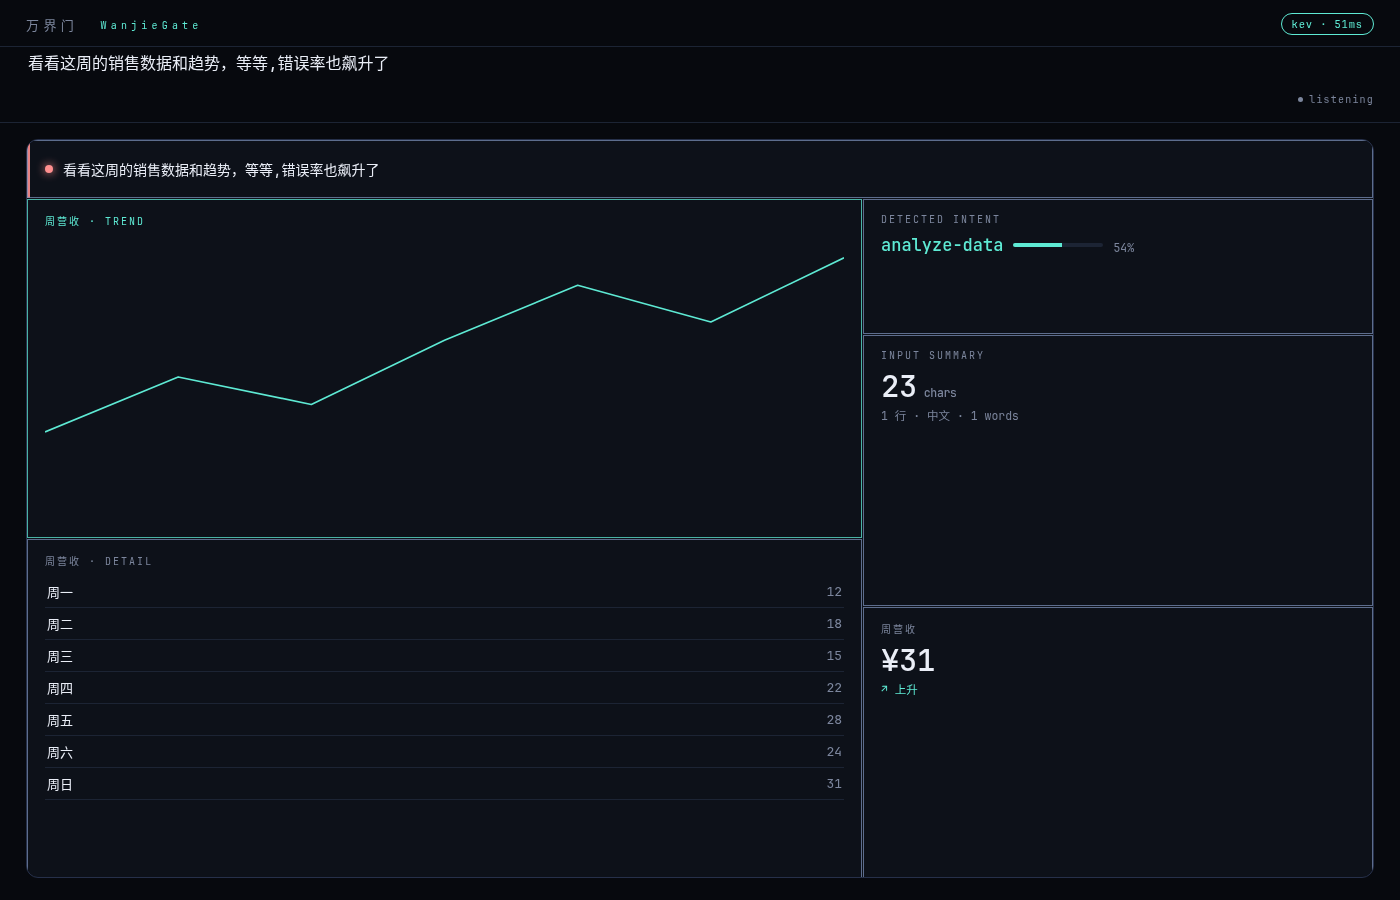
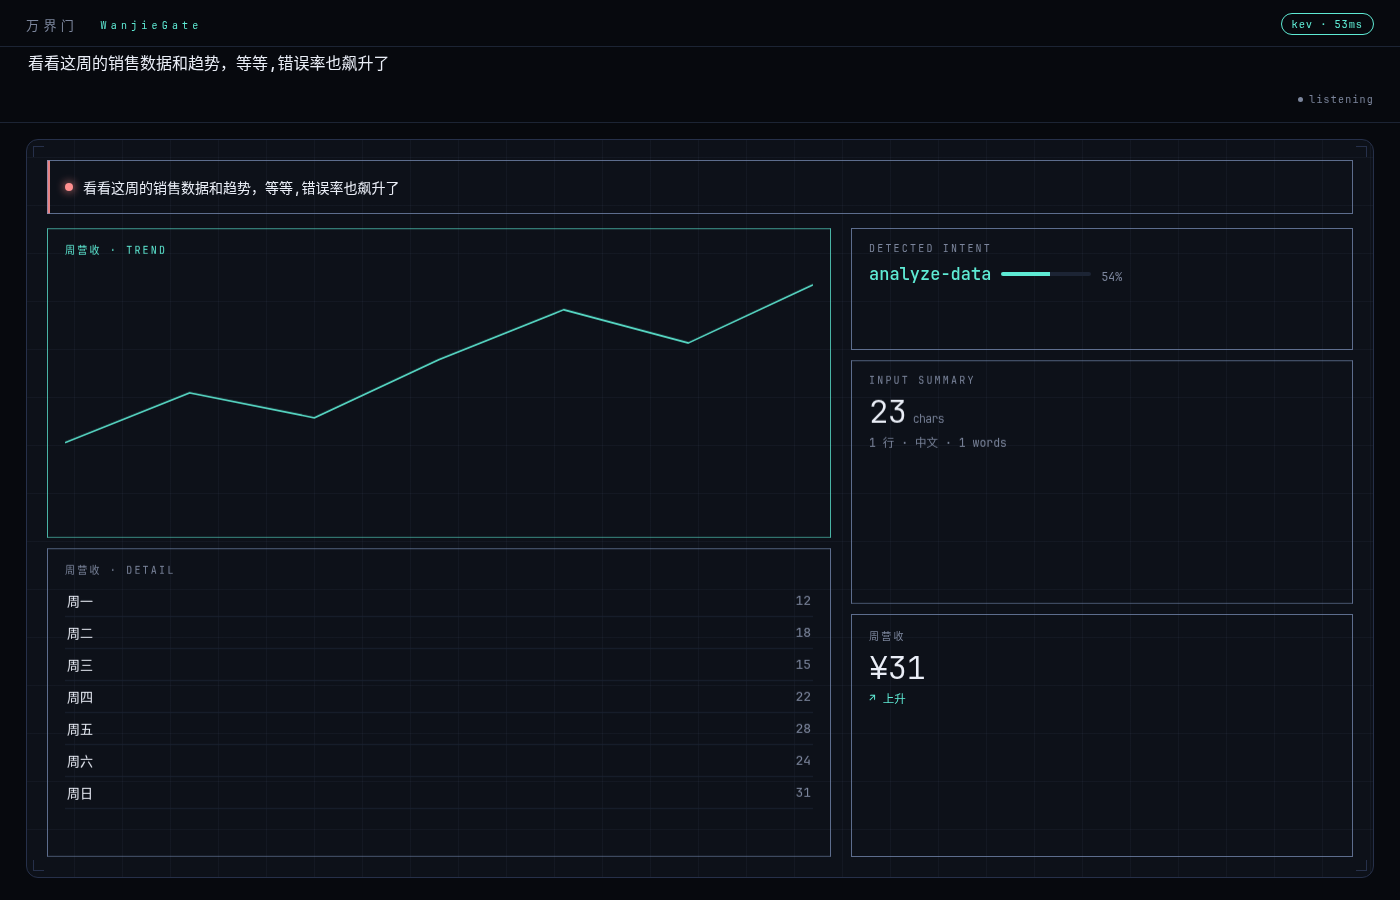
设计语言升级:留白分区 + 静止必清晰(参考 hyperframes-creative)
- pack() 引入 20px 内边距 / 20px 主侧栏沟槽 / 14px 组间 / 10px 组内,
  区域变为互不相连的独立描边矩形,产生真实留白与主附层级
- 模糊改为运动驱动(|target-m|):静止态必定全清晰,幽灵提案也只是
  低透明虚线,不再常驻模糊
- 进场按组件声明分化:条带 clip-path 横向扫入,主区 spring,
  hero zoom,其余缓升
- 舞台加角部套准标记 + 48px 极淡基线网格(Swiss Pulse),
  大数字改 300 字重

Generated with [Devin](https://devin.ai)

diff --git a/static/app.js b/static/app.js
@@ -11,7 +11,7 @@ const MOCK = new URLSearchParams(location.search).has("mock");
 const DEBOUNCE_MS = 320;
 const TAU_IN = 0.16, TAU_OUT = 0.5;        // 进场快、退场慢(秒)
 const MOUNT_P = 0.03, GHOST_LO = 0.15, SOLID = 0.55;
-const STRIP_H = 58, DIV = 1;                  // 条带高度 / 分隔线宽
+const STRIP_H = 54;
 const EASE = "cubic-bezier(.22,1.2,.3,1)";
 
 let manifest = null;
@@ -135,7 +135,11 @@ function defaultBinding(id) {
   return b ? Object.keys(b.options)[0] : null;
 }
 
-/* ---------- 空间分划:舞台被切成条带 + 主区/侧栏,区域按权重填满 ---------- */
+/* ---------- 空间分划:留白 + 主附分区 ----------
+ * 顶/底条带与中部主区/侧栏之间留 16-20px 空白;组内区域间 10px;
+ * 每条边界都是独立的描边矩形,线不互相连接。
+ */
+const PAD = 20, GUT = 20, GAP = 14, GAP_IN = 10;
 function zoneOf(id) {
   if (id === "alert-banner") return "top";
   if (id === "action-bar") return "bottom";
@@ -153,34 +157,35 @@ function pack() {
   const bots  = vis.filter(c => zoneOf(c.id) === "bottom");
   const mains = vis.filter(c => zoneOf(c.id) === "main");
   const rails = vis.filter(c => zoneOf(c.id) === "rail");
+  const Wi = W - PAD * 2, Hi = H - PAD * 2;
 
-  let y = 0;
-  for (const c of tops) { c.rect = {x: 0, y, w: W, h: STRIP_H}; y += STRIP_H + DIV; }
-  let by = H;
-  for (const c of bots) { by -= STRIP_H; c.rect = {x: 0, y: by, w: W, h: STRIP_H}; by -= DIV; }
-  const midH = Math.max(0, by + DIV - y);
+  let y = PAD;
+  for (const c of tops) { c.rect = {x: PAD, y, w: Wi, h: STRIP_H}; y += STRIP_H + GAP; }
+  let by = H - PAD;
+  for (const c of bots) { by -= STRIP_H; c.rect = {x: PAD, y: by, w: Wi, h: STRIP_H}; by -= GAP; }
+  const midY = y, midH = Math.max(0, by - midY);   // 条带循环里已含间隔
 
-  const narrow = W < 720;
-  let mainW = W;
+  const narrow = Wi < 720;
+  let mainW = Wi;
   if (mains.length && rails.length && !narrow)
-    mainW = Math.round(W * (layoutMode === "split" ? 0.52 : 0.62));
+    mainW = Math.round(Wi * (layoutMode === "split" ? 0.52 : 0.60));
   else if (!mains.length) mainW = 0;
 
-  // 一列区域内按 minH 权重铺满,最后一个吃掉舍入余量
+  // 一列区域内按 minH 权重铺满,组内 10px 间隔,最后一个吃掉舍入余量
   const stack = (list, x0, w, y0, h) => {
     const tot = list.reduce((s, c) => s + (manifest.components[c.id].minH || 1), 0);
     let cy = y0;
     list.forEach((c, i) => {
       const ch = i === list.length - 1 ? y0 + h - Math.round(cy)
-        : Math.round((h - DIV * (list.length - 1)) * (manifest.components[c.id].minH || 1) / tot);
+        : Math.round((h - GAP_IN * (list.length - 1)) * (manifest.components[c.id].minH || 1) / tot);
       c.rect = {x: x0, y: Math.round(cy), w, h: Math.max(0, ch)};
-      cy += ch + DIV;
+      cy += ch + GAP_IN;
     });
   };
-  if (narrow) stack([...mains, ...rails], 0, W, y, midH);
+  if (narrow) stack([...mains, ...rails], PAD, Wi, midY, midH);
   else {
-    if (mains.length) stack(mains, 0, mainW, y, midH);
-    if (rails.length) stack(rails, mains.length ? mainW + DIV : 0, mains.length ? W - mainW - DIV : W, y, midH);
+    if (mains.length) stack(mains, PAD, mainW, midY, midH);
+    if (rails.length) stack(rails, mains.length ? PAD + mainW + GUT : PAD, mains.length ? Wi - mainW - GUT : Wi, midY, midH);
   }
 }
 
@@ -203,10 +208,19 @@ function tick(now) {
       c.el.style.left = r.x + "px"; c.el.style.top = r.y + "px";
       c.el.style.width = r.w + "px"; c.el.style.height = r.h + "px";
     }
-    c.el.style.transform = `translateY(${(lift * 10).toFixed(1)}px)`;
+    // 进场方式按组件声明:条带横向扫入,主区弹簧,其余缓升
+    const enter = manifest.components[c.id].enter;
+    if (enter === "wipe") c.el.style.clipPath = `inset(0 ${(lift * 100).toFixed(1)}% 0 0)`;
+    else c.el.style.clipPath = "none";
+    c.el.style.transform = enter === "wipe" ? "none"
+      : enter === "zoom" ? `scale(${(0.94 + 0.06 * m).toFixed(4)})`
+      : enter === "spring" ? `translateY(${(lift * 14).toFixed(1)}px) scale(${(0.97 + 0.03 * m).toFixed(4)})`
+      : `translateY(${(lift * 8).toFixed(1)}px)`;
     c.el.style.opacity = m.toFixed(3);
     c.el.style.setProperty("--co", Math.pow(m, 1.5).toFixed(3));   // 字比线慢一点出现
-    c.el.style.filter = lift > 0.02 ? `blur(${(lift * 6).toFixed(1)}px)` : "none";
+    // 模糊只属于"运动过程":静止(m≈target)必须全清晰
+    const motion = Math.abs(c.target - c.m);
+    c.el.style.filter = motion > 0.015 ? `blur(${Math.min(4, motion * 7).toFixed(1)}px)` : "none";
     c.el.style.zIndex = c.id === emphasis ? 5 : 1;
     const ghosting = m < SOLID;
     c.el.classList.toggle("ghost", ghosting);

diff --git a/static/styles.css b/static/styles.css
@@ -58,9 +58,19 @@ header {
   position: relative; overflow: hidden; flex: 1;
   margin: 16px 26px 22px;
   border: 1px solid var(--hair); border-radius: 12px;
-  background: var(--panel);                       /* 一整块平面,分隔线由区域自己画出 */
+  background: var(--panel);
+  /* 极淡基线网格,平面不是空的 */
+  background-image:
+    repeating-linear-gradient(0deg,  transparent 0 47px, rgba(140,160,210,.05) 47px 48px),
+    repeating-linear-gradient(90deg, transparent 0 47px, rgba(140,160,210,.05) 47px 48px);
   opacity: 1; transition: opacity .5s ease;
 }
+/* 角部套准标记(Swiss registration marks) */
+#stage .reg { position: absolute; width: 11px; height: 11px; border: 1px solid var(--hair); z-index: 0; }
+#stage .reg.tl { top: 6px; left: 6px; border-right: none; border-bottom: none; }
+#stage .reg.tr { top: 6px; right: 6px; border-left: none; border-bottom: none; }
+#stage .reg.bl { bottom: 6px; left: 6px; border-right: none; border-top: none; }
+#stage .reg.br { bottom: 6px; right: 6px; border-left: none; border-top: none; }
 #app.idle #stage { opacity: 0; pointer-events: none; }
 
 /* ---------- 区域:没有底色,边界线由 JS 按 materialize 逐帧拉出 ---------- */
@@ -80,8 +90,8 @@ header {
 .card > * { opacity: var(--co, 1); }
 .card.emph .c-title { color: var(--accent); }
 
-.card .c-title { font-size: 10px; letter-spacing: .2em; text-transform: uppercase; color: var(--dim); margin-bottom: 8px; }
-.card .c-big { font-size: clamp(24px, 3.4vh, 38px); font-weight: 600; line-height: 1.05; letter-spacing: -.01em; }
+.card .c-title { font-size: 10px; letter-spacing: .22em; text-transform: uppercase; color: var(--dim); margin-bottom: 8px; }
+.card .c-big { font-size: clamp(26px, 3.6vh, 42px); font-weight: 300; line-height: 1.05; letter-spacing: -.02em; }
 .card .c-sub { font-size: 11.5px; color: var(--dim); margin-top: 5px; }
 .card .trend-up { color: var(--accent); }
 .card .trend-down { color: var(--warn); }

diff --git a/static/index.html b/static/index.html
@@ -20,7 +20,9 @@
     <div id="pulse"><span id="pulse-dot"></span><span id="pulse-text">listening</span></div>
   </section>
 
-  <section id="stage" aria-live="polite"></section>
+  <section id="stage" aria-live="polite">
+    <i class="reg tl"></i><i class="reg tr"></i><i class="reg bl"></i><i class="reg br"></i>
+  </section>
 
   <aside id="debug" class="hidden"></aside>
 </div>
